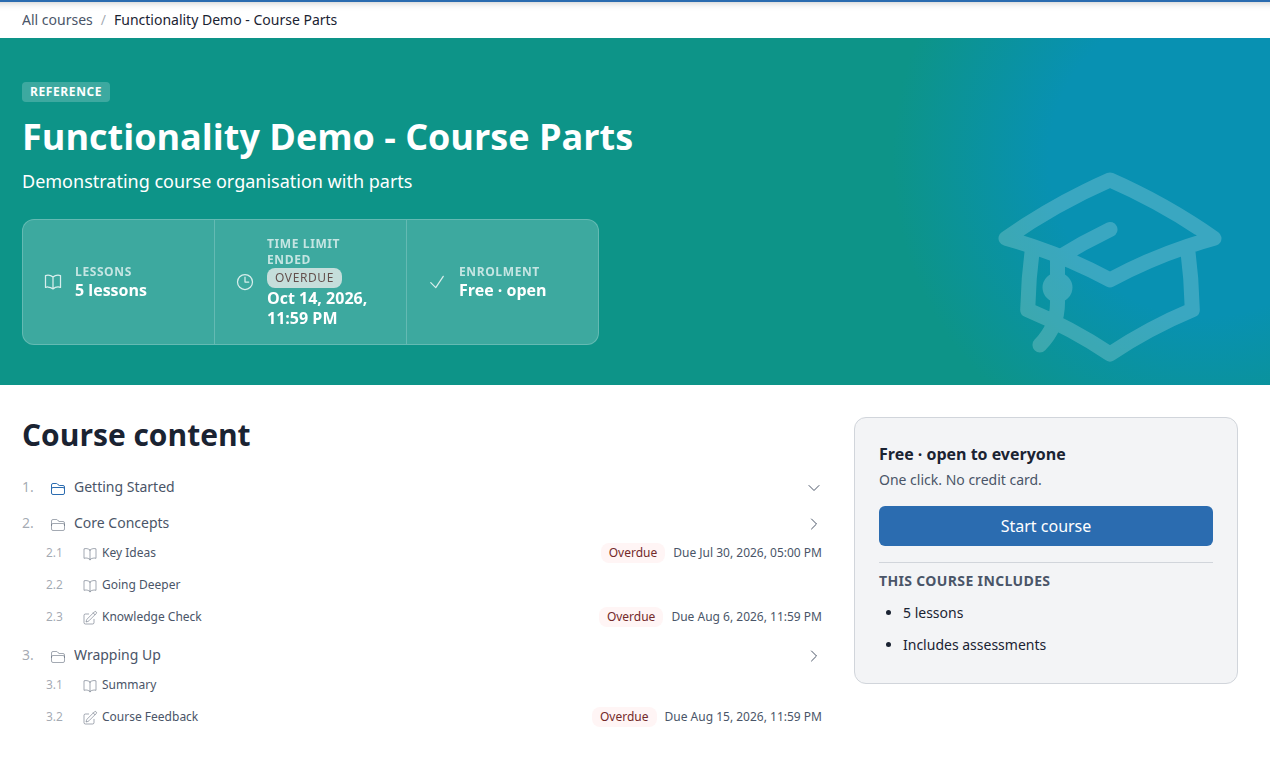
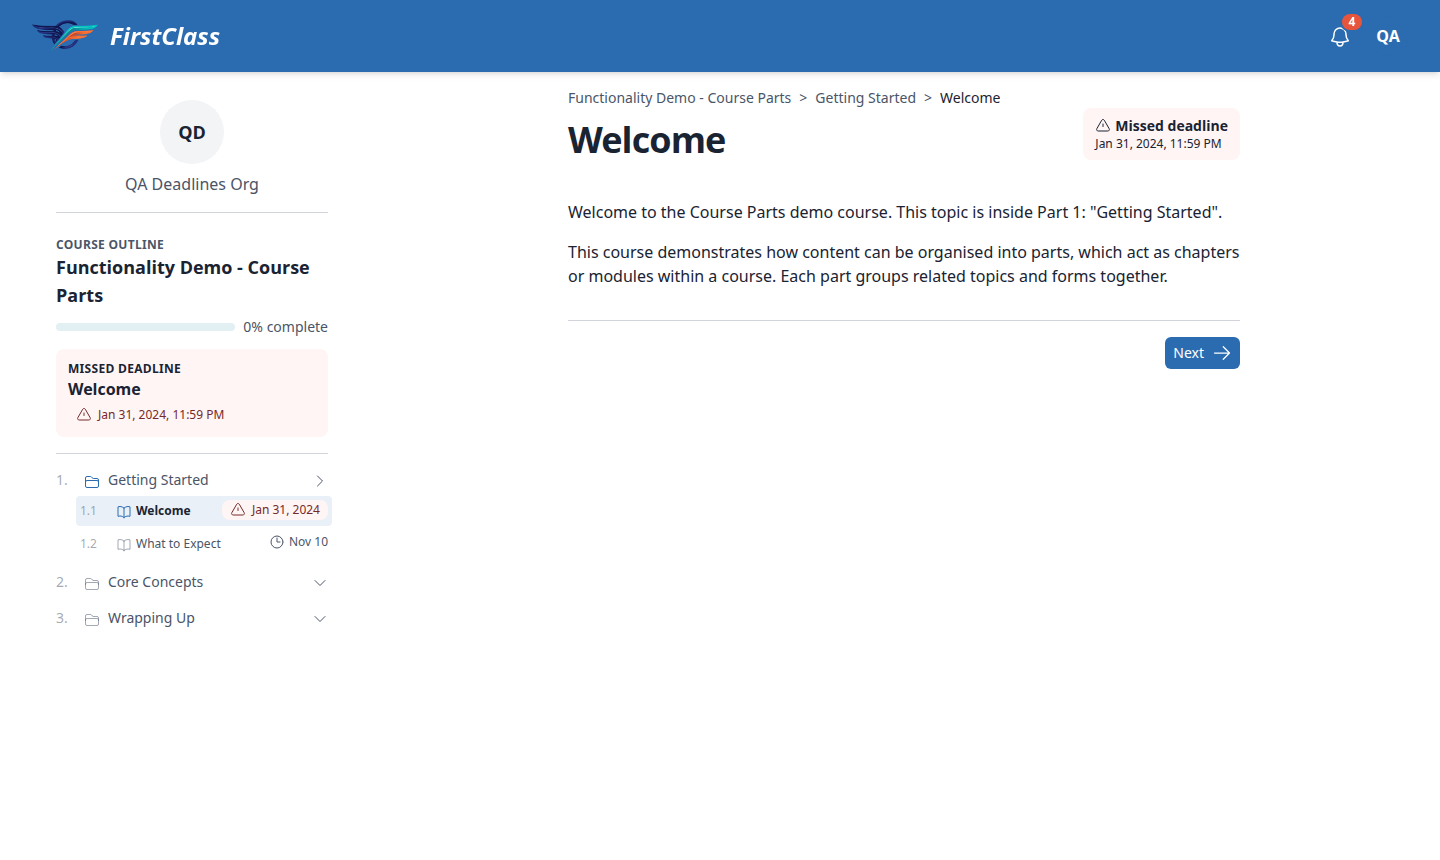
design_learner-interface-deadlines: update the product docs

diff --git a/docs/product/learner-experience.md b/docs/product/learner-experience.md
@@ -15,7 +15,7 @@ _Last updated: 2026-11-05_
 - Multi-page forms, quiz feedback (pass/fail, score, optional reveal of incorrect answers), and a course finish page are all built in.
 - A form, whether an application form or one in a course, can show a page, a question or a block of text only to learners whose earlier answers call for it. A learner sees and is counted against only what applies to them. See [Multi-Page Forms](#multi-page-forms).
 - A form question can ask for text, a number, a date, a time, an email address, a URL, a phone number, a file upload, or a choice made from radio buttons, checkboxes or a dropdown. An answer that does not fit its question's type is refused at submission, with the reason shown on the question itself, rather than stored as typed.
-- A registered learner sees deadlines and a **Missed deadline** mark in the course player's outline and on the dashboard card; the course detail page shows only the course's time limit as a length, the same for everyone. By default nothing is enforced, but staff can switch the mark off, close incomplete items after their deadline, and end course access after the time limit, each after an optional grace window, while the learner's progress is kept. See [Deadlines](#deadlines).
+- A registered learner sees each deadline as upcoming, due today, missed or closed, each with its own colour, icon and word, in the course player and on the dashboard card; the course detail page shows only the course's time limit as a length, the same for everyone. By default nothing is enforced, but staff can switch the mark off, close incomplete items after their deadline, and end course access after the time limit, each after an optional grace window, while the learner's progress is kept. See [Deadlines](#deadlines).
 - Where a learner is studying through an organisation, that organisation's logo — or an initials monogram — and its name appear as a small, secondary mark in the course player. The site's own branding stays primary throughout.
 - A course can belong to particular organisations, and only their learners see it unless it is public. Where a course has one organisation, the dashboard, the all-courses list and the course page name it, so same-titled versions of a course can be told apart. See [multi-tenancy and isolation](./multi-tenancy-and-isolation.md#organisations).
 - Failures — a dead link, a refused permission, a form the site could not verify, too many attempts — show a branded, themed error page that carries its real HTTP status code and a route back into the app, rather than a generic framework fallback.
@@ -295,14 +295,16 @@ When every item in a course is complete, the learner reaches a finish page and t
 
 A course author can give a topic or form a due date, and a course a time limit; an administrator can change either for a cohort's registration or for a single learner, or remove it. A registered learner sees the result in two places:
 
-- **Course player outline** — "Deadline" and the date under each incomplete item that has one. Once it has passed, a **Missed deadline** mark takes the place of "Deadline". A completed item shows neither.
-- **Dashboard course card** — one line above the progress bar: the earliest missed deadline with its title and date, else "Next deadline:" with the title and date of the next one. A passed or coming time limit shows as "Course", as in "Missed deadline Course <date>".
+- **Course player** — the outline opens with a **Next deadline** card for the earliest missed deadline, else the next one, and each incomplete item with a deadline shows its date on its own row. The item the learner is on shows its deadline in a card beside its title. A completed item shows none.
+- **Dashboard course card** — a band along the bottom of the card's coloured hero names the earliest missed deadline, else the next one, with its title and date. A time limit shows under the title "Course", and a closed item's band says **Closed** and names the item.
+
+A deadline shows in one of four states, each with its own colour, icon and word: **Deadline**, **Deadline today**, **Missed deadline** and **Closed**.
 
 The **course detail page** shows no deadline dates. Where the course has a time limit, a "Time limit" cell gives its length, such as "90 days", the same for everyone. Its course outline marks a closed item **Closed**, as the player does.
 
-![Course player outline with a missed deadline](screenshots/learner_course_detail_due_dates.png)
+![Course player with the next-deadline card, outline dates and the deadline card beside the item title](screenshots/learner_course_detail_due_dates.png)
 
-![Dashboard course card showing a missed deadline](screenshots/learner_dashboard_card_overdue.png)
+![Dashboard course card with a missed-deadline band along the bottom of its hero](screenshots/learner_dashboard_card_overdue.png)
 
 Dates show in the learner's own time zone, taken from their browser, with no zone name beside them. A site can choose to show the zone label as well; it is off by default. Where a learner is registered for the same course through more than one [organisation](./multi-tenancy-and-isolation.md#organisations), each registration's own deadlines apply.
 
